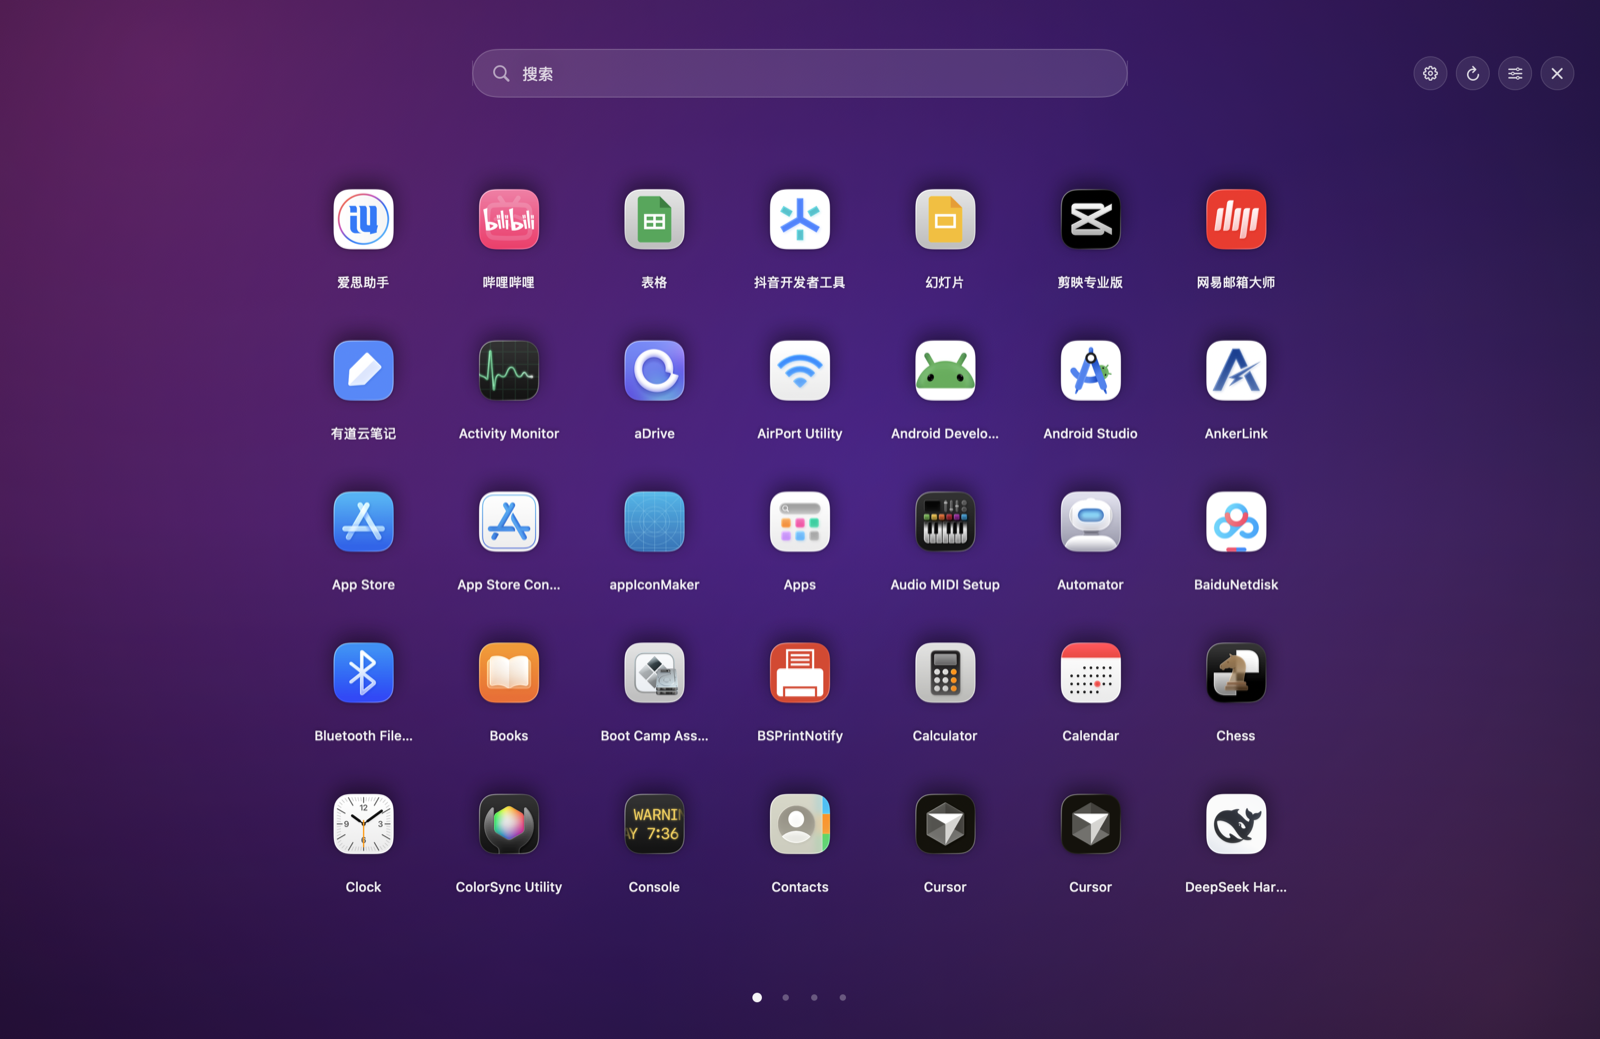
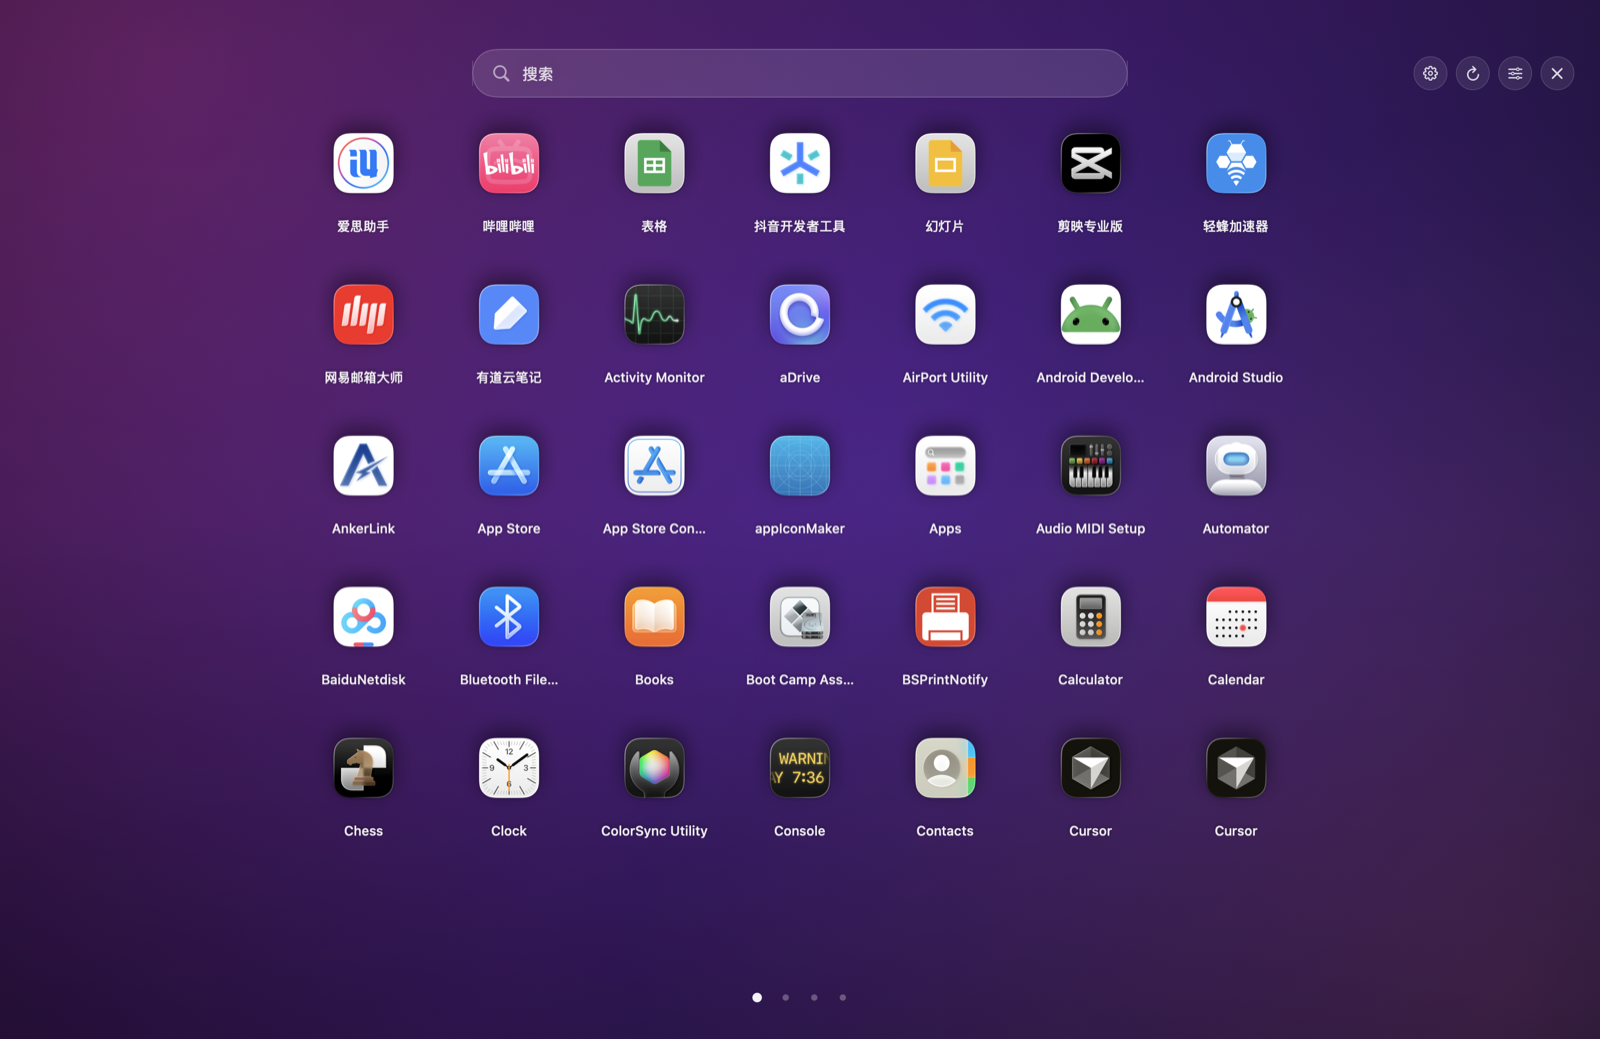
Add drag reordering and top-align pages

diff --git a/Sources/DashboardView.swift b/Sources/DashboardView.swift
@@ -10,6 +10,8 @@ struct DashboardView: View {
     @State private var dragPath: String?
     @State private var dragLocation: CGPoint = .zero
     @State private var dropTargetID: String?
+    @State private var reorderIndex: Int?
+    @State private var insertionLine: DropLine?
 
     var body: some View {
         ZStack {
@@ -55,7 +57,19 @@ struct DashboardView: View {
         .animation(.snappy(duration: 0.24), value: model.openedFolderID)
         .animation(.snappy(duration: 0.2), value: model.toast)
         .onPreferenceChange(TileFramePreferenceKey.self) { tileFrames = $0 }
-        .overlay(alignment: .topLeading) { dragPreview }
+        .overlay(alignment: .topLeading) {
+            ZStack(alignment: .topLeading) {
+                if let line = insertionLine {
+                    RoundedRectangle(cornerRadius: 1.5, style: .continuous)
+                        .fill(Color.white.opacity(0.96))
+                        .frame(width: 3, height: line.height)
+                        .offset(x: line.x - 1.5, y: line.y)
+                        .shadow(color: Color.black.opacity(0.4), radius: 3)
+                        .allowsHitTesting(false)
+                }
+                dragPreview
+            }
+        }
         .onExitCommand(perform: handleEscape)
     }
 
@@ -68,7 +82,7 @@ struct DashboardView: View {
 
             HStack(spacing: 8) {
                 if model.isEditing {
-                    Text("编辑模式 · 拖动分组")
+                    Text("编辑模式 · 拖动排序 / 分组")
                         .font(.system(size: 11, weight: .medium))
                         .foregroundStyle(.white.opacity(0.82))
                         .padding(.horizontal, 10)
@@ -220,7 +234,6 @@ struct DashboardView: View {
                     .onTapGesture(perform: handleBackgroundTap)
 
                 VStack(spacing: 0) {
-                    if !model.isSearching { Spacer(minLength: 0) }
                     if tiles.isEmpty {
                         emptyState
                     } else {
@@ -236,7 +249,6 @@ struct DashboardView: View {
                         .padding(.top, 8)
                         .padding(.bottom, 8)
                     }
-                    if !model.isSearching { Spacer(minLength: 0) }
                 }
                 .frame(minHeight: height, alignment: .top)
             }
@@ -375,29 +387,123 @@ struct DashboardView: View {
                     }
                 }
                 dragLocation = value.location
-                let target = tileFrames.first {
-                    $0.key != tile.id && $0.value.contains(value.location)
-                }?.key
-                if target != dropTargetID {
-                    withAnimation(.snappy(duration: 0.12)) {
-                        dropTargetID = target
-                    }
-                }
+                updateDropTarget(at: value.location, source: tile)
             }
             .onEnded { value in
                 guard model.isEditing else { return }
-                let target = tileFrames.first {
-                    $0.key != tile.id && $0.value.contains(value.location)
-                }?.key
+                updateDropTarget(at: value.location, source: tile)
+
                 let source = dragPath
-                withAnimation(.snappy(duration: 0.15)) {
+                let groupTarget = dropTargetID
+                let index = reorderIndex
+
+                withAnimation(.snappy(duration: 0.14)) {
                     dragPath = nil
                     dropTargetID = nil
+                    reorderIndex = nil
+                    insertionLine = nil
                 }
-                if let source, let target {
-                    model.drop(path: source, onto: target)
+
+                guard let source else { return }
+                if let groupTarget {
+                    model.drop(path: source, onto: groupTarget)
+                } else if let index {
+                    let globalIndex = model.currentPage * model.appsPerPage + index
+                    withAnimation(.snappy(duration: 0.2)) {
+                        model.moveApp(path: source, to: globalIndex)
+                    }
                 }
             }
+    }
+
+    private func updateDropTarget(at point: CGPoint, source: Tile) {
+        let pageTiles = model.tiles(on: model.currentPage)
+        guard !pageTiles.isEmpty else {
+            clearDropTarget()
+            return
+        }
+
+        var groupID: String?
+        var index: Int?
+
+        // 悬停在图标中心 = 分组；悬停在图标左右边缘 = 插入排序。
+        for (tileIndex, pageTile) in pageTiles.enumerated() {
+            guard pageTile.id != source.id,
+                  let frame = tileFrames[pageTile.id],
+                  frame.contains(point) else { continue }
+
+            if pageTile.folder != nil {
+                groupID = pageTile.id
+            } else {
+                let relativeX = (point.x - frame.minX) / max(frame.width, 1)
+                if relativeX < 0.24 {
+                    index = tileIndex
+                } else if relativeX > 0.76 {
+                    index = tileIndex + 1
+                } else {
+                    groupID = pageTile.id
+                }
+            }
+            break
+        }
+
+        // 空白区域：插到最近的图标前/后；下方空白直接放到本页末尾。
+        if groupID == nil && index == nil {
+            if let last = pageTiles.last,
+               let lastFrame = tileFrames[last.id],
+               point.y > lastFrame.maxY {
+                index = pageTiles.count
+            } else if let first = pageTiles.first,
+                      let firstFrame = tileFrames[first.id],
+                      point.y < firstFrame.minY {
+                index = 0
+            } else {
+                var nearest: (index: Int, frame: CGRect, distance: CGFloat)?
+                for (tileIndex, pageTile) in pageTiles.enumerated() where pageTile.id != source.id {
+                    guard let frame = tileFrames[pageTile.id] else { continue }
+                    let distance = hypot(point.x - frame.midX, point.y - frame.midY)
+                    if nearest == nil || distance < nearest!.distance {
+                        nearest = (tileIndex, frame, distance)
+                    }
+                }
+                if let nearest {
+                    index = point.x < nearest.frame.midX ? nearest.index : nearest.index + 1
+                }
+            }
+        }
+
+        let line = index.flatMap { makeInsertionLine(at: $0, pageTiles: pageTiles) }
+
+        if groupID != dropTargetID || index != reorderIndex || line != insertionLine {
+            withAnimation(.snappy(duration: 0.1)) {
+                dropTargetID = groupID
+                reorderIndex = index
+                insertionLine = line
+            }
+        }
+    }
+
+    private func makeInsertionLine(at index: Int, pageTiles: [Tile]) -> DropLine? {
+        let clamped = min(max(index, 0), pageTiles.count)
+        if clamped < pageTiles.count,
+           let frame = tileFrames[pageTiles[clamped].id] {
+            return DropLine(x: frame.minX - 8, y: frame.minY, height: frame.height)
+        }
+        if let last = pageTiles.last,
+           let frame = tileFrames[last.id] {
+            return DropLine(x: frame.maxX + 8, y: frame.minY, height: frame.height)
+        }
+        return nil
+    }
+
+    private func clearDropTarget() {
+        if dropTargetID != nil || reorderIndex != nil || insertionLine != nil {
+            withAnimation(.snappy(duration: 0.1)) {
+                dropTargetID = nil
+                reorderIndex = nil
+                insertionLine = nil
+            }
+        }
     }
 
     @ViewBuilder
@@ -506,6 +612,12 @@ struct DashboardView: View {
                 current = candidate.superview
             }
         }
+    }
+
+    private struct DropLine: Equatable {
+        let x: CGFloat
+        let y: CGFloat
+        let height: CGFloat
     }
 
     private struct TileFramePreferenceKey: PreferenceKey {

diff --git a/Sources/DashboardModel.swift b/Sources/DashboardModel.swift
@@ -329,6 +329,24 @@ final class DashboardModel: ObservableObject {
         apply(newLayout)
     }
 
+    /// 拖动排序：insertionIndex 是在原数组中的插入位置（0...count）。
+    func moveApp(path: String, to insertionIndex: Int) {
+        guard let from = layout.tiles.firstIndex(of: .app(path)) else { return }
+
+        var target = insertionIndex
+        if from < target { target -= 1 }
+        target = min(max(target, 0), layout.tiles.count - 1)
+        guard target != from else { return }
+
+        var tiles = layout.tiles
+        let tile = tiles.remove(at: from)
+        tiles.insert(tile, at: min(target, tiles.count))
+
+        var newLayout = layout
+        newLayout.tiles = tiles
+        apply(newLayout)
+    }
+
     func addToFolder(path: String, folderID: UUID) {
         guard let index = layout.tiles.firstIndex(where: { $0.folder?.id == folderID }),
               var folder = layout.tiles[index].folder,

diff --git a/Sources/AppMain.swift b/Sources/AppMain.swift
@@ -435,6 +435,14 @@ enum DashboardMain {
             return 1
         }
 
+        if let reorderPath = initialPaths.first {
+            let total = model.layout.tiles.count
+            model.moveApp(path: reorderPath, to: total)
+            check(model.layout.tiles.last == .app(reorderPath), "拖动排序到页尾")
+            model.moveApp(path: reorderPath, to: 0)
+            check(model.layout.tiles.first == .app(reorderPath), "拖动排序到页首")
+        }
+
         let first = initialPaths[0]
         let second = initialPaths[1]
 

diff --git a/PLAN.md b/PLAN.md
@@ -7,7 +7,7 @@
 >
 > **实施状态（2026-10-27）：已完成可运行原型。**
 > 产物：`dist/Dashboard.app`；构建：`./build.sh`；启动：`open dist/Dashboard.app`。
-> 自动验证：构建通过、扫描到 132 个 App、F12 注册成功、布局 / 分页 / 背景 / 设置自测 25 项全过、LaunchServices 启动并写入 `layout.json`、运行时截图见 `docs/screenshot.png`。
+> 自动验证：构建通过、扫描到 132 个 App、F12 注册成功、布局 / 分页 / 排序 / 背景 / 设置自测 27 项全过、LaunchServices 启动并写入 `layout.json`、运行时截图见 `docs/screenshot.png`。
 > v1.1：顶部搜索（名称 / bundle id，名称命中优先），见 `docs/search.png`。
 > v1.2：`Tab` / `Shift+Tab` 循环选择（末尾回绕）、蓝色高亮、`Enter` 打开，见 `docs/selection.png`。
 > v1.3：分页（默认 35 个/页）、设置面板（每页 20/28/35 个、图标小/中/大）、`←` / `→` 翻页。
@@ -26,6 +26,7 @@
 | 点击图标启动 App | ✅ | `NSWorkspace.shared.openApplication(at:configuration:)` |
 | 长按进入编辑模式 | ✅ | SwiftUI `onLongPressGesture(minimumDuration:)` + 抖动动画 |
 | 拖拽一个 App 到另一个 App 上分组 | ✅ | 自研 `DragGesture` + 控件帧命中（不使用系统 `dropDestination`，避免离屏渲染出现禁用角标） |
+| 拖动排序 | ✅ | 拖到图标边缘/空隙插入，显示插入线；页内排序 |
 | 删除（从面板移除） | ✅ | 修改本地布局 JSON；不会卸载 App，符合旧版 Dashboard 语义 |
 | 真正卸载 App（可选） | ✅ | `NSWorkspace.shared.recycle(_:)` 移到废纸篓，系统会弹授权 |
 | 分组重命名 / 解散 / 移出成员 | ✅ | 本地数据模型 + 右键菜单 / 文件夹弹层 |
@@ -108,8 +109,9 @@ Layout    { tiles: [Tile], hidden: Set<String> }
 |---|---|
 | 点击 App 图标 | 启动 App，并收起 Dashboard |
 | 长按图标 0.55s | 进入编辑模式，图标开始轻微抖动 |
-| 编辑模式下拖拽 A 到 B | 合成文件夹（默认名“新建文件夹”），可重命名 |
+| 编辑模式下拖拽 A 到 B 的中心 | 合成文件夹（默认名“新建文件夹”），可重命名 |
 | 拖拽 App 到文件夹 | 加入该文件夹 |
+| 拖拽到图标边缘 / 空隙 | 插入排序，显示白色插入线 |
 | `Tab` / `Shift+Tab` | 循环选中下一个 / 上一个，末尾回到开头，跨页自动翻页 |
 | `Enter` | 打开选中 App 或进入选中文件夹 |
 | `←` / `→` | 上一页 / 下一页 |
@@ -130,7 +132,7 @@ Layout    { tiles: [Tile], hidden: Set<String> }
 
 视觉：
 - 默认极光渐变；可切换午夜星空、纯色或自选图片
-- 图标大小小/中/大/超大四档；小图标 9 列，其余 7 列
+- 图标大小小/中/大/超大四档；小图标 9 列，其余 7 列；不足一页内容靠上排列
 - 每页固定数量，横向分页 + 底部圆点；滚动条强制隐藏
 - 顶部只保留居中大搜索框（620×46），无标题栏，并避开刘海 / 菜单栏
 - 背景可切换极光渐变、午夜星空、纯色或自选图片
@@ -162,6 +164,7 @@ Layout    { tiles: [Tile], hidden: Set<String> }
 - [x] 点击图标走 `NSWorkspace.openApplication`（已接线；启动外部 App 未做自动化点击）
 - [x] 长按 0.55s 进入编辑模式，图标抖动（已实现）
 - [x] 编辑模式下拖拽 A 到 B 生成文件夹（手势 + 命中逻辑已实现，数据层自测通过）
+- [x] 拖动到边缘/空隙可插入排序，不足一页时内容靠上（数据层自测 + 运行时）
 - [x] 文件夹可打开、改名、移出成员、解散（数据层自测通过）
 - [x] `Tab` 依次选择，最后一个之后回到第一个；`Shift+Tab` 反向（合成按键测试通过）
 - [x] 选中项有明显蓝色高亮，Enter 可打开（运行时截图验证）
@@ -200,7 +203,7 @@ Layout    { tiles: [Tile], hidden: Set<String> }
 - `glassEffect` 在 SwiftUICore 中可用（macOS 26.0+）
 - 扫描：标准目录原始枚举 139 份，按 bundle id 去重后 **132 个 App**
 - 构建：`swift build -c release` 通过；`dist/Dashboard.app` ad-hoc 签名，`codesign --verify --deep --strict` 通过
-- 逻辑自测：`--self-test` **25 项全部 PASS**（扫描、Tab / 跨页、建组、重命名、移出、隐藏、恢复、解散、落盘、设置 / 背景持久化）
+- 逻辑自测：`--self-test` **27 项全部 PASS**（扫描、Tab / 跨页、排序、建组、重命名、移出、隐藏、恢复、解散、落盘、设置 / 背景持久化）
 - 键盘测试：`--key-test` 合成真实 Tab / Shift+Tab / ← / → 事件，5 项 PASS
 - 滚动测试：`--scroll-test` 合成鼠标滚轮，3 项 PASS（翻一页、冷却内不连翻、再次滚动再翻一页）
 - 点击测试：`--dismiss-test` 合成点击，2 项 PASS（空白背景收起、设置遮罩关闭）
@@ -222,7 +225,7 @@ cd DashboardReborn
 ./build.sh
 open dist/Dashboard.app
 
-# 自动验证（25 项）
+# 自动验证（27 项）
 DASHBOARD_LAYOUT_PATH=$PWD/.build/selftest.json \
 DASHBOARD_SETTINGS_SUITE=dash.self \
 DASHBOARD_BACKGROUND_DIR=$PWD/.build/backgrounds \
